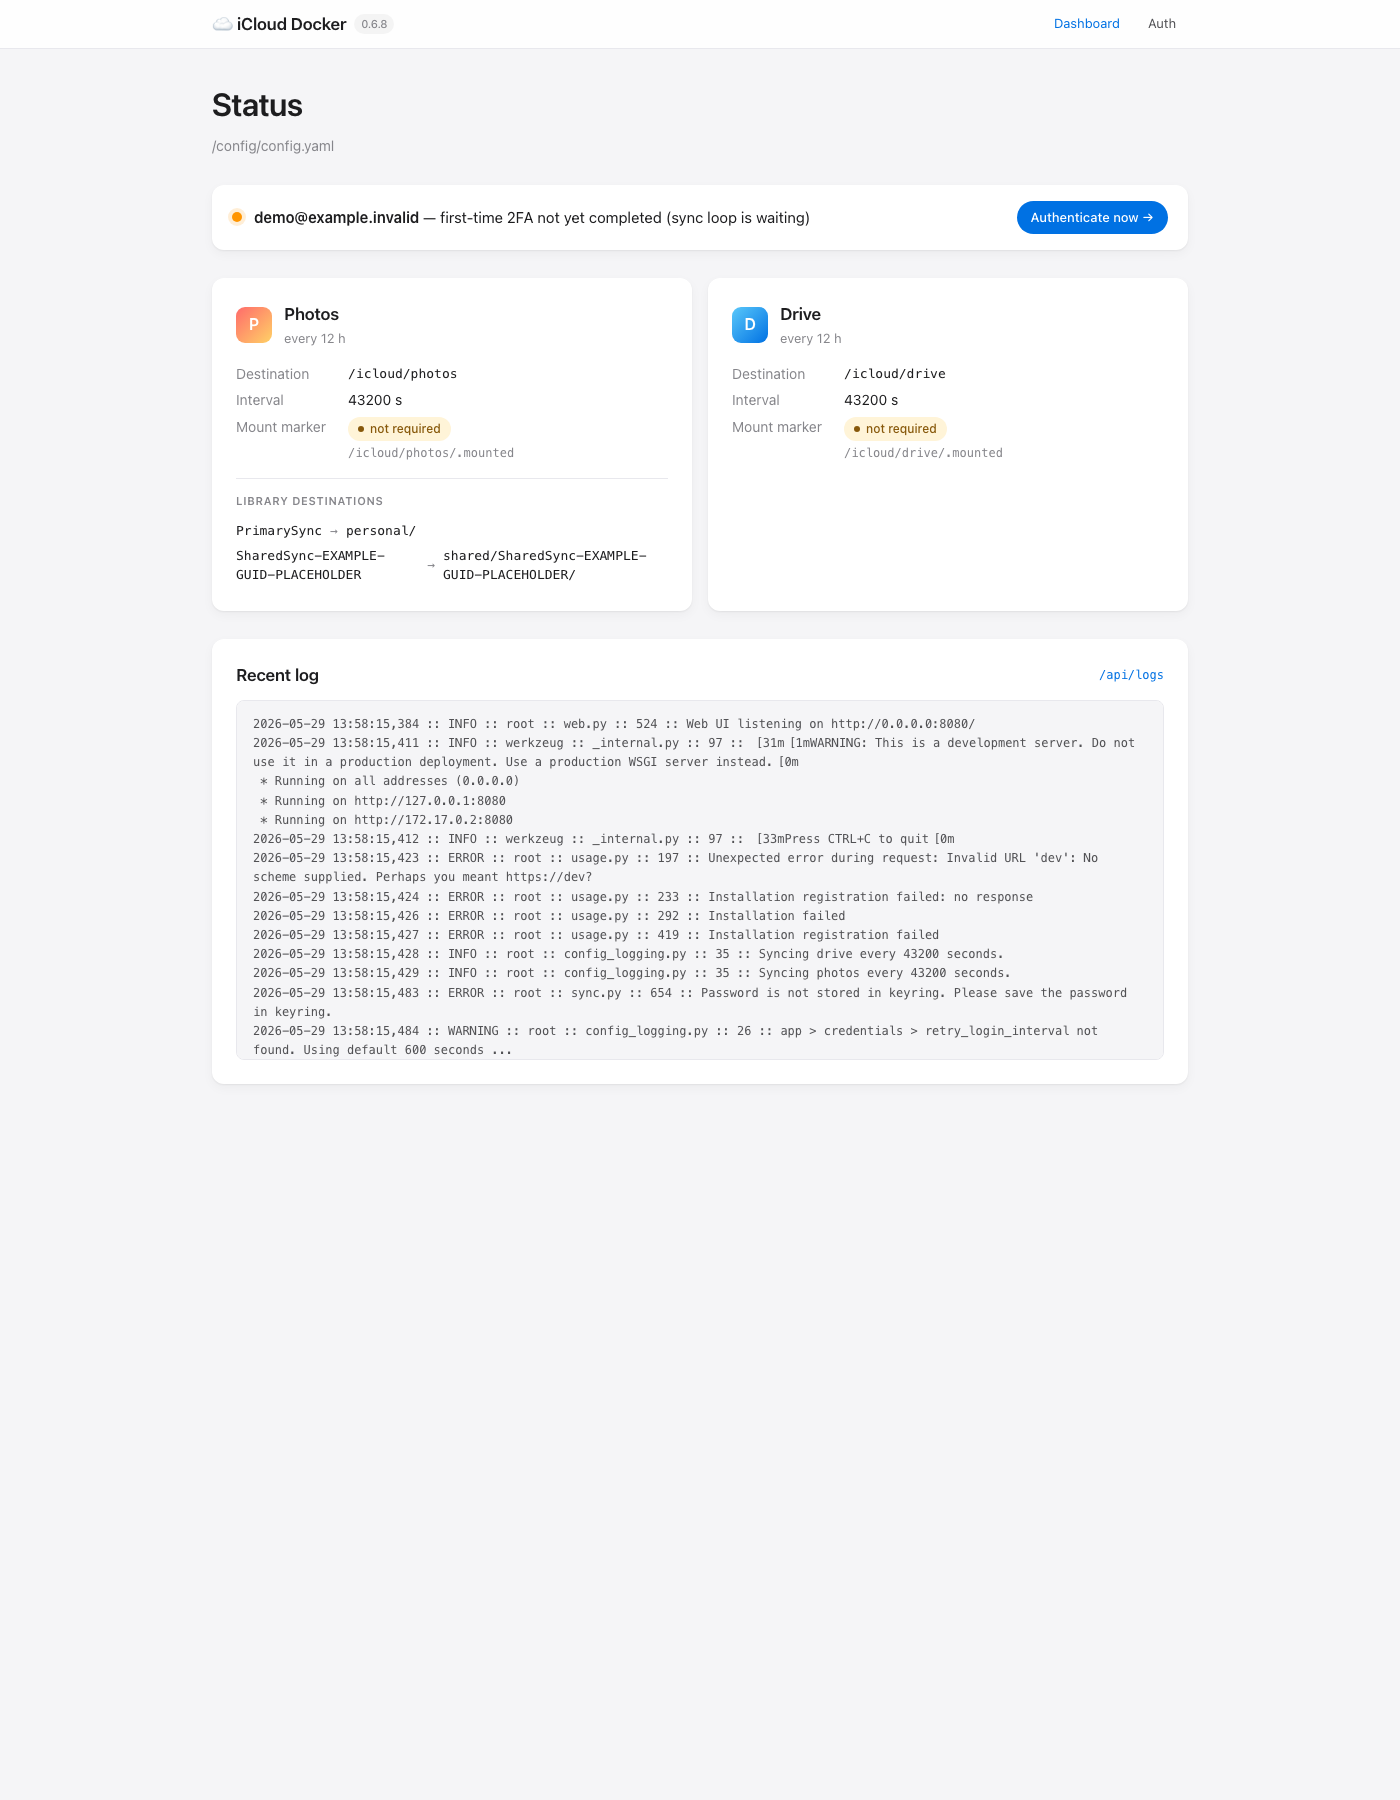
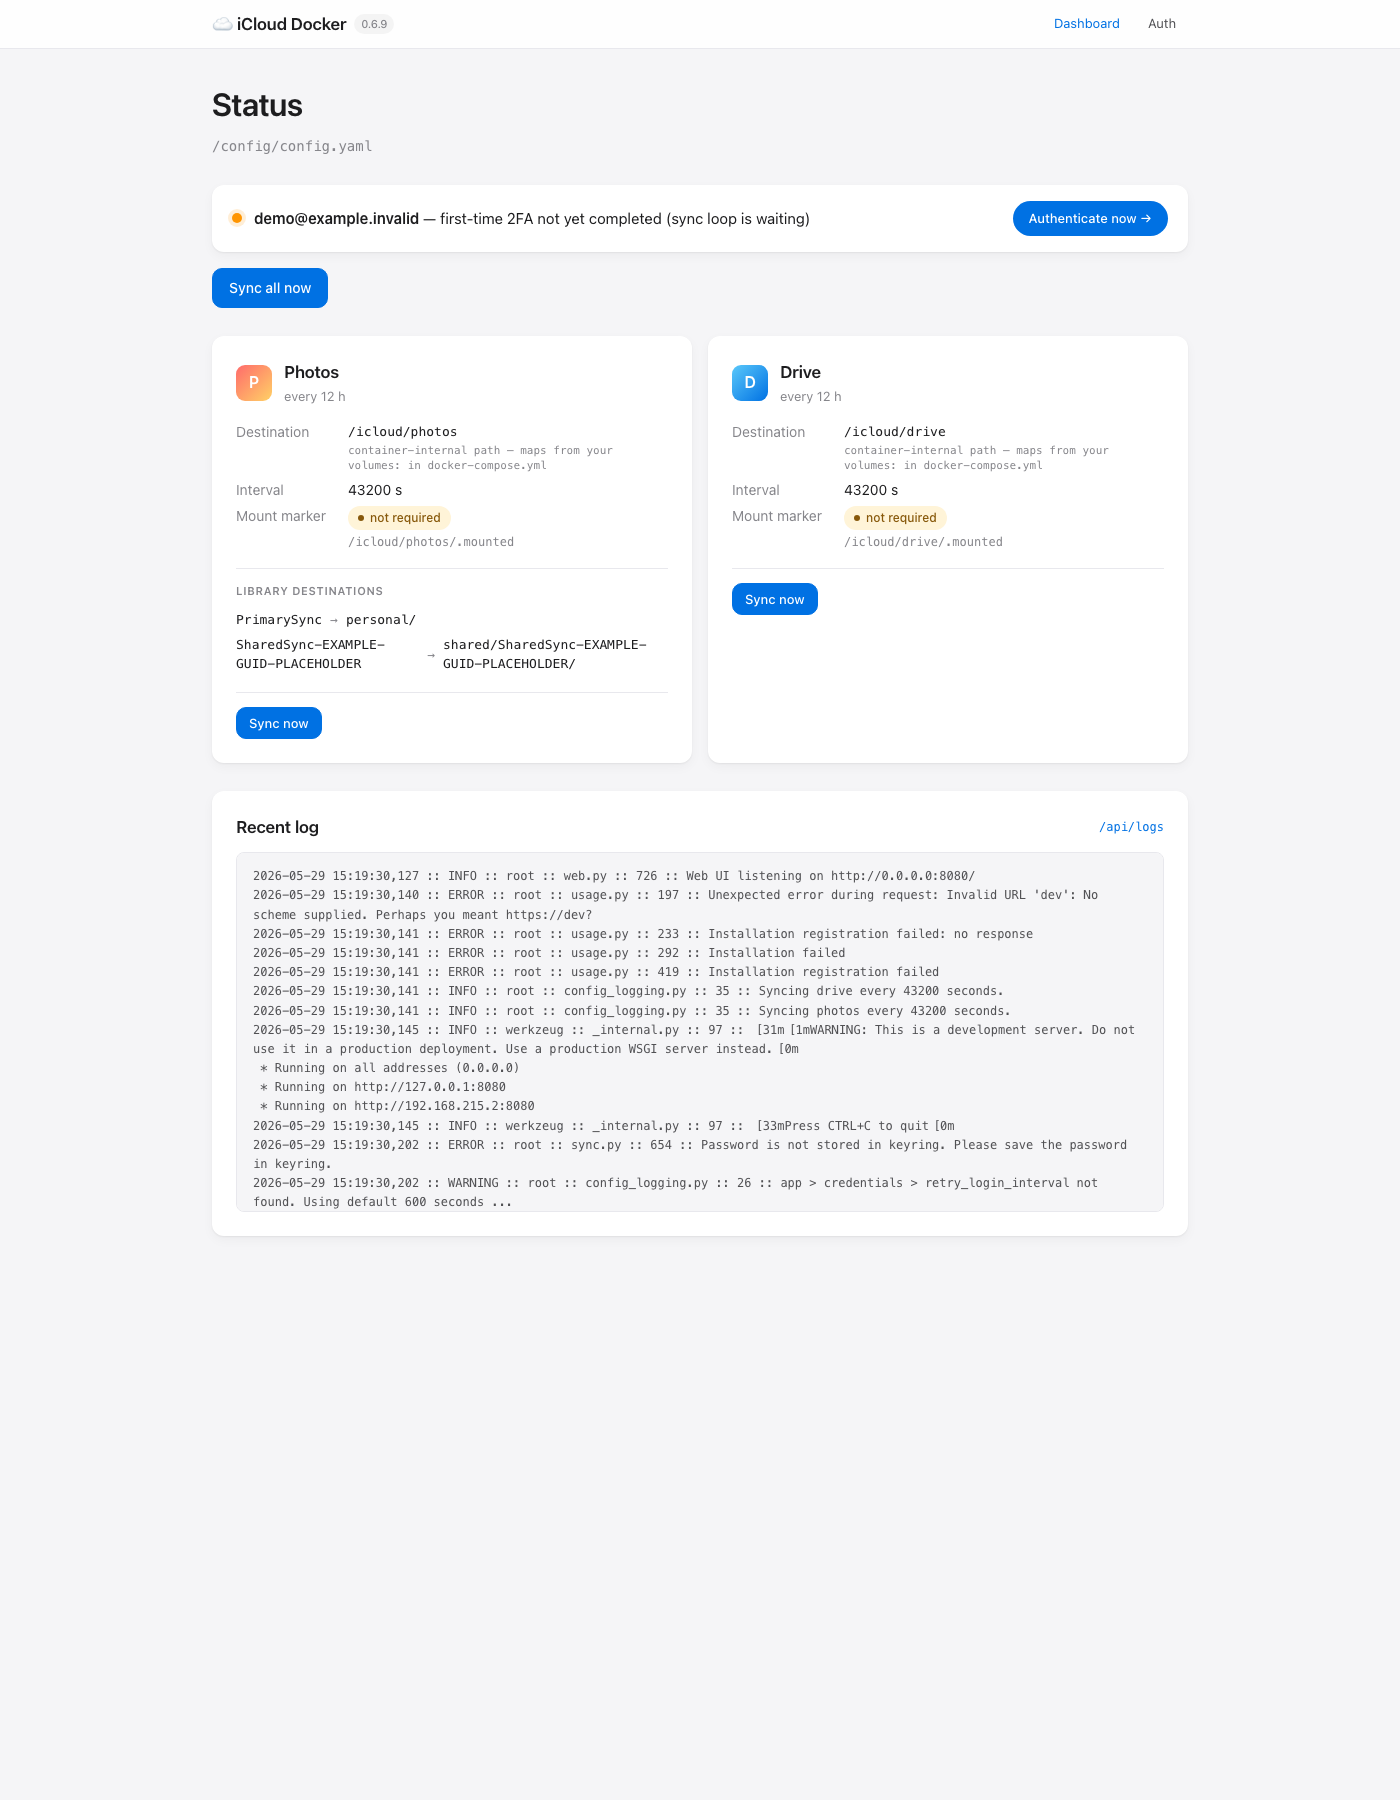
docs: refresh screenshots for 0.6.9 web UI (mobile + new buttons)
The 0.6.7-era dashboard.png was stale after the 0.6.9 push that
added "Sync all now" + per-card "Sync now" + "Refresh trust" +
container-path hints + responsive CSS.

- dashboard.png: desktop view showing all the new affordances.
- dashboard-mobile.png: 420px-wide mobile view proving the status
  row stacks, buttons stretch full-width, and the kv grid collapses
  to single column without overflow.

Captured from a sanitized demo container with placeholder Apple ID
and EXAMPLE-GUID-PLACEHOLDER library destinations — zero PII.

README web_ui section now renders both side-by-side in a 2-col
table.

diff --git a/README.md b/README.md
@@ -379,7 +379,12 @@ Default is OFF for backward compatibility; existing setups see no behaviour chan
 
 ### `web_ui` — built-in dashboard + re-auth from your phone
 
-![Dashboard](docs/screenshots/dashboard.png)
+<table>
+<tr>
+<td width="65%"><img src="docs/screenshots/dashboard.png" alt="Dashboard (desktop)"></td>
+<td width="35%"><img src="docs/screenshots/dashboard-mobile.png" alt="Dashboard (mobile)"></td>
+</tr>
+</table>
 
 Opt-in via `app.web_ui.enabled: true`. When enabled, a Flask app starts on `:8080` inside the container alongside the sync loop.
 